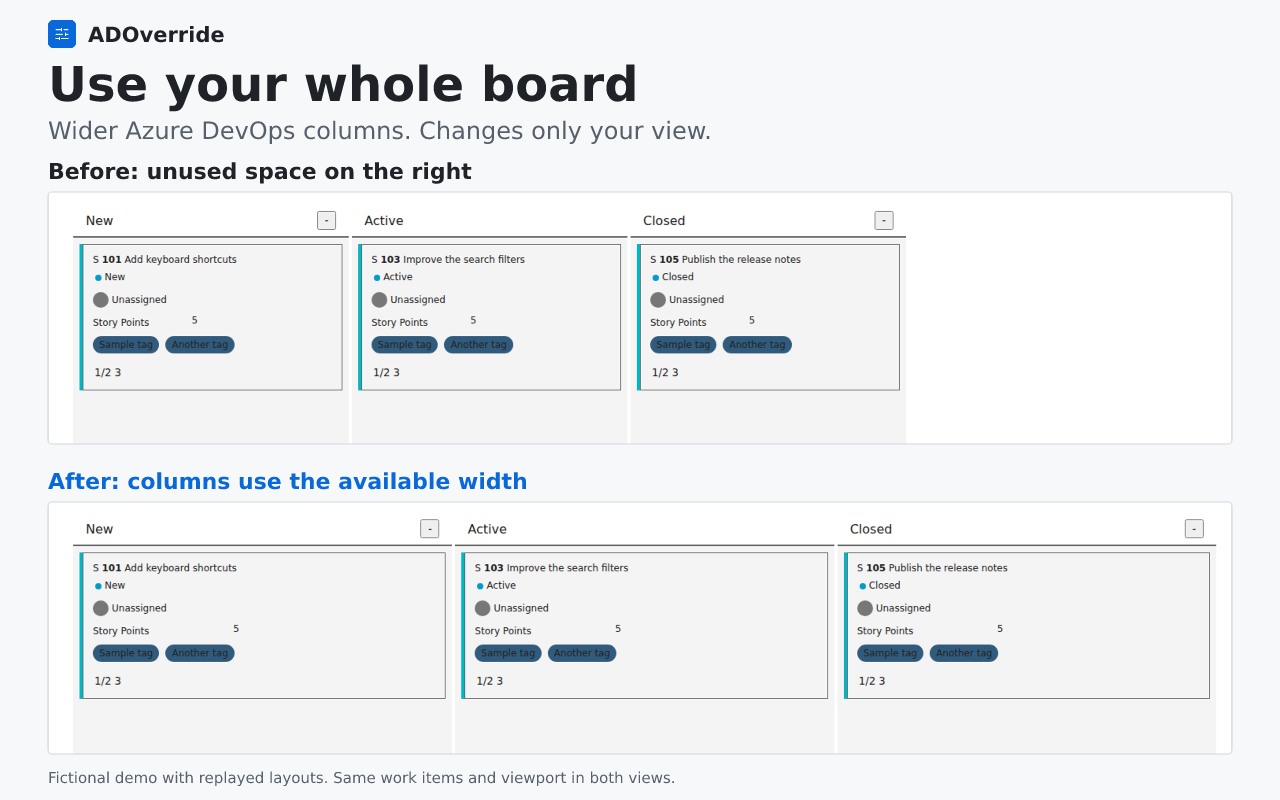
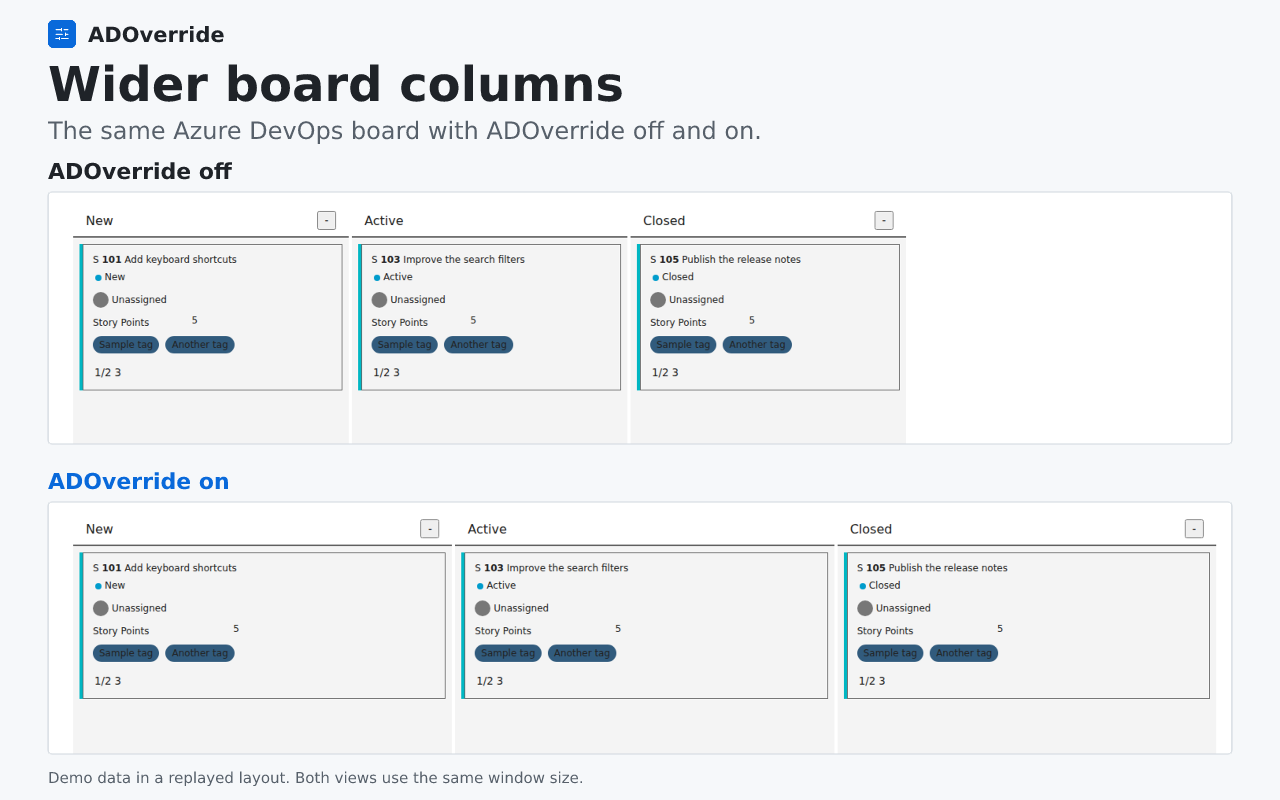
docs: use plain language and copy-ready paragraphs
Replace slogans with direct descriptions of the controls and behavior.
Keep listing paragraphs and dashboard copy on single source lines.

Copilot-Session: d2587140-a7e9-4cc3-b282-4b366887cf30

Changed region(s): [[0.0312, 0.0625, 0.5938, 0.25], [0.0625, 0.9688, 0.5312, 1.0], [0.0625, 0.5938, 0.4062, 0.625]]

diff --git a/docs/chrome-web-store.md b/docs/chrome-web-store.md
@@ -1,28 +1,18 @@
 # Chrome Web Store listing and updates
 
-The [live item](https://chromewebstore.google.com/detail/adoverride-azure-devops-b/ijeoidnjoamdkpfgbnhfajddhpakobjo)
-currently serves **0.11.10**. The copy in [store/LISTING.txt](store/LISTING.txt)
-and the published-version images describe Boards and work items only.
-Newer PR features on `main` are not in that package.
+The [store version](https://chromewebstore.google.com/detail/adoverride-azure-devops-b/ijeoidnjoamdkpfgbnhfajddhpakobjo) is **0.11.10**. The text in [store/LISTING.txt](store/LISTING.txt) and the images describe Boards and work items. PR features on `main` are not in that package.
 
 No store submission is made by the scripts in this repository.
 
 ## 1. Update the existing item
 
-Open the [Developer Dashboard](https://chrome.google.com/webstore/devconsole)
-using the publishing account and select ADOverride, item
-`ijeoidnjoamdkpfgbnhfajddhpakobjo`. **Do not add a new item.**
+Open the [Developer Dashboard](https://chrome.google.com/webstore/devconsole) with the publishing account and select ADOverride, item `ijeoidnjoamdkpfgbnhfajddhpakobjo`. **Do not add a new item.**
 
-For the current presentation-only update, replace the detailed description with
-`store/LISTING.txt` and the first screenshot with `store/01-board.jpg`. Keep the
-existing package and screenshots 2-5. Confirm the homepage, support, and privacy
-links below, save the draft, and follow the dashboard's review/publication steps.
-The listing bundle is not an extension ZIP and must not be uploaded as a package.
+Replace the detailed description with `store/LISTING.txt` and the first screenshot with `store/01-board.jpg`. Keep the current package and screenshots 2-5. Check the links below, save, and submit the changes.
 
-For a later binary update, use the approved, verified Chrome ZIP from the
-matching [GitHub release](https://github.com/sinmentis/adoverride/releases).
-Keep existing release artifacts unchanged. A source-code ZIP or the entire
-listing-assets folder is not an installable extension package.
+The listing ZIP contains text and images, not an extension package. Do not upload it in the dashboard's package section.
+
+For a later extension update, use the approved Chrome ZIP from the matching [GitHub release](https://github.com/sinmentis/adoverride/releases). Do not change an already published release file.
 
 ## 2. Store listing
 
@@ -45,29 +35,22 @@ The published 0.11.10 manifest supplies this short description:
 Declutter Azure DevOps Boards and work items: hide fields, rearrange cards, wider Kanban columns. Your Azure DevOps. Your way.
 ```
 
-The title and short description come from the uploaded manifest. They are not
-changed by pasting the detailed description. This presentation update keeps
-them unchanged. For a future approved package, a clearer proposed summary is
-(122 characters, within the 132-character limit):
+The title and short description come from the uploaded extension package. This text-and-images update leaves them unchanged. A suggested short description for a later package is:
 
 ```text
-Hide work item fields, rearrange form sections, and widen Azure DevOps boards. Customize your view, not your team's setup.
+Hide fields, move work item sections, and make Azure DevOps board columns wider. Changes only affect your browser.
 ```
 
 ### Detailed description
 
-Paste the complete contents of [store/LISTING.txt](store/LISTING.txt). That file
-is the source of truth for current-store copy; do not paste PR feature text from
-the main-branch guide into the current-version listing.
+Paste all of [store/LISTING.txt](store/LISTING.txt). Do not add PR features to this version's description.
 
 ## 3. Privacy practices
 
 ### Single purpose
 
 ```text
-Let users personalize the local presentation of Azure DevOps Boards and work
-items by choosing visible content, form arrangements, and display density,
-without changing work item data or the team's process.
+Change how Azure DevOps Boards and work items look in the user's browser. Users can hide fields, move form sections, and change spacing without changing work item data or the team's process.
 ```
 
 ### Permission justifications
@@ -75,36 +58,25 @@ without changing work item data or the team's process.
 **storage**
 
 ```text
-Store local presentation settings, scope-specific Board profiles, Ticket
-visibility and arrangements, named presets, the last undoable change, and a
-pre-import configuration backup. No Chrome Storage Sync is used.
+Save settings in the browser: Board profiles, hidden work item fields, section positions, presets, the last undoable change, and a backup before importing settings. Chrome Storage Sync is not used.
 ```
 
 **activeTab**
 
 ```text
-Identify the tab the user is customizing when they open the popup, determine
-whether it is a supported Azure DevOps view, and connect the popup's settings
-and inspection controls to that tab. Unrelated pages are not customized.
+Check whether the current tab is a supported Azure DevOps page and connect the popup to that page. The extension does not change other websites.
 ```
 
 **scripting**
 
 ```text
-Inject the bundled content controller into an already-open Azure DevOps tab
-when the controller is missing or outdated after an extension install or
-update. Injection is guarded by a supported Azure DevOps URL check and uses
-only packaged code.
+Connect the extension to an Azure DevOps tab that was already open when the extension was installed or updated. This uses only code included in the package and only runs on supported Azure DevOps URLs.
 ```
 
 **Host permissions: `https://dev.azure.com/*`, `https://*.visualstudio.com/*`**
 
 ```text
-Apply saved presentation settings to Azure DevOps pages as they load and read
-project/process/type/form-layout metadata from the user's own organization
-over HTTPS with their existing session. The legacy visualstudio.com pattern
-supports organization-specific Azure DevOps hostnames. Access is not requested
-for arbitrary websites. There is no developer backend or work item write API.
+Apply saved settings to Azure DevOps pages and read project, process, work item type, and form-layout information from the user's own organization over HTTPS. Requests use the user's existing sign-in. The visualstudio.com permission supports older Azure DevOps addresses. The extension does not request access to other websites, send data to a developer server, or write to work items.
 ```
 
 ### Remote code
@@ -144,29 +116,18 @@ must match the linked privacy policy.
 Paste these instructions into **Test instructions**:
 
 ```text
-ADOverride has no separate account or paid features. It requires access to an
-Azure DevOps Services organization/project with Azure Boards enabled.
+ADOverride has no separate account or paid features. You need an Azure DevOps Services organization and project with Azure Boards enabled.
 
-1. Sign in at https://dev.azure.com using a test organization/project. Use an
-   English UI and a standard Agile or Scrum process. Create a few fictional
-   work items if the Board is empty.
+1. Sign in at https://dev.azure.com using a test organization and project. Use English and a standard Agile or Scrum process. Create a few fictional work items if the Board is empty.
 2. Open Boards > Boards, pin ADOverride, and open its popup.
-3. In Library > Board layout, toggle Equal-width columns and Compact header.
-   The Board should change without modifying work items.
-4. In Library > Card fields, toggle Assignee or Tags. Card metadata visibility
-   should change without changing the stored values.
-5. Open a User Story or Bug. The popup selects Ticket. Expand Details under
-   Cards & fields and toggle a supported optional card such as Description.
-6. Open Layout and switch between Original and Workspace. Where the native
-   layout is supported, Workspace has a reading area and Properties rail.
-7. Leave layout controls unlocked to drag a card by its extension handle.
-   Undo restores the last Ticket customization. Lock removes on-page controls.
-8. Turn off ADOverride using the popup's master switch. Native presentation
-   returns; saved preferences remain for the next time it is enabled.
+3. In Library > Board layout, toggle Equal-width columns and Compact header. The Board should change without modifying work items.
+4. In Library > Card fields, toggle Assignee or Tags. Fields should appear or disappear without changing the saved values.
+5. Open a User Story or Bug. The popup selects Ticket. Expand Details under Cards & fields and toggle a supported section such as Description.
+6. Open Layout and switch between Original and Workspace. On supported forms, Workspace shows the main text in a wide column and other fields in a sidebar.
+7. Leave layout controls unlocked and drag a section by its extension handle. Undo restores the last work item customization. Lock removes the on-page controls.
+8. Turn off ADOverride using the switch at the top of the popup. The original page layout returns. Saved settings are kept.
 
-No personal access token is required. The extension is limited to
-dev.azure.com and HTTPS *.visualstudio.com sites. Unknown layouts may remain
-unchanged. On other websites the popup explains that an ADO page is required.
+No personal access token is required. The extension only works on dev.azure.com and HTTPS *.visualstudio.com sites. Parts it does not recognize stay unchanged. On other websites the popup asks you to open an Azure DevOps page.
 ```
 
 **Access to arrange before submission:** these instructions do not provide a

diff --git a/README.md b/README.md
@@ -1,79 +1,49 @@
 # ADOverride
 
-**Customize your Azure DevOps view without changing your team's setup.**
-
-A Chrome extension to hide work item fields, rearrange form sections, and make
-Kanban boards use more of your screen. Layout changes affect your browser, not
-your teammates' views or your Azure DevOps process.
+ADOverride changes the layout of Azure DevOps boards and work items in Chrome. You can hide fields, move sections in work items, and make board columns wider. It only changes your view, not work item data or what other people see.
 
 For Azure DevOps Services on `dev.azure.com` and `*.visualstudio.com`.
 
-**[Install from Chrome Web Store](https://chromewebstore.google.com/detail/adoverride-azure-devops-b/ijeoidnjoamdkpfgbnhfajddhpakobjo)** |
-[Getting started](docs/guide.md#install-in-chrome) |
-[Manual install / build from source](docs/guide.md#manual-install)
+**[Install from Chrome Web Store](https://chromewebstore.google.com/detail/adoverride-azure-devops-b/ijeoidnjoamdkpfgbnhfajddhpakobjo)** | [Getting started](docs/guide.md#install-in-chrome) | [Manual install / build from source](docs/guide.md#manual-install)
 
-**Available in the store: v0.11.10**, with Boards and work item customization.
-The newer pull request features on `main` (v0.11.17) are **not in the store
-version yet**.
+**The store version is v0.11.10.** It supports Boards and work items. Pull request support is on `main` (v0.11.17), but **is not in the store version yet**.
 
-[![Before and after: the same fictional Azure DevOps board uses the available width with ADOverride](docs/images/board-hero.png)](docs/images/board-hero.png)
+[![The same demo board with ADOverride off and on](docs/images/board-hero.png)](docs/images/board-hero.png)
 
 ## Get started
 
-1. Install from the store, pin **ADOverride**, and open an Azure DevOps Kanban
-   board or work item.
-2. Click the extension icon. **Library** contains Board settings; **Ticket**
-   contains work item settings.
-3. Choose the fields and layout you want. The built-in preset applies
-   automatically and hides some work item fields. Turn the switch at the top
-   of the popup off to see Azure DevOps' own layout; your preferences are kept.
+1. Install from the store, pin **ADOverride**, and open an Azure DevOps Kanban board or work item.
+2. Click the extension icon. **Library** has the Board settings. **Ticket** has the work item settings.
+3. Turn individual options on or off.
 
-Chrome updates store installations automatically. Manual installation is for
-development or trying a build that has not reached the store.
+The default preset applies automatically and hides some work item fields. Use **Ticket > Cards & fields > Show all** to show them again. The switch at the top of the popup turns off layout changes and keeps your saved settings.
 
-## Use the full width of your Kanban board
+Chrome updates store installations automatically. Use manual installation only for development or trying a build that is not in the store.
 
-Use equal-width columns, reduce header spacing, and choose which fields appear
-on cards. Load more items through Azure DevOps' native controls under your
-current filters. Save Board settings for one board, a project, an organization,
-or all supported sites.
+## Boards
 
-## Hide work item fields and give descriptions more room
+Make columns fill the available width, reduce header spacing, and choose which fields appear on cards. The extension can also load more items automatically under your current filters. Save settings for one board, a project, an organization, or all supported sites.
 
-Show or hide supported form sections and fields, move sections into your
-preferred arrangement, or use **Workspace** for a wider reading area with
-properties alongside it. Lock the layout or undo your last customization.
-Works with supported User Story, Bug, and other work item forms.
+## Work items
+
+Show or hide supported pages, sections, and fields. Move sections, or use **Workspace** to put the main text in a wide column and other fields in a sidebar. You can lock the layout or undo your last change. Supported forms include User Stories and Bugs.
 
 [![The same fictional work item before and after the wider reading layout](docs/images/ticket-before-after.png)](docs/images/ticket-before-after.png)
 
-Save personal presets or transfer settings with JSON export/import.
-See the [guide](docs/guide.md) for individual controls and how to restore hidden
-fields.
+You can save presets and export or import settings as JSON. The [guide](docs/guide.md) explains each control.
 
-## Compatibility and privacy
+## Compatibility
 
-Supports Azure DevOps Services on `dev.azure.com` and `*.visualstudio.com`.
-Some features depend on English labels. Board layout support targets Kanban
-boards, not every Backlog, Query, sprint, or custom layout. Unsupported parts
-may stay unchanged. Azure DevOps Server on other domains is not supported.
+Some features need English page labels. Board layout changes work on supported Kanban boards, not every Backlog, Query, sprint, or custom layout. Parts the extension does not recognize stay unchanged. Azure DevOps Server on other domains is not supported.
 
-Settings are stored locally. No analytics or developer backend.
-ADOverride reads the page address and layout to apply settings, and requests
-form-layout metadata from your own Azure DevOps organization using your existing
-sign-in. It does not send your work item data to the developer or submit work
-item changes. [Read the privacy policy](PRIVACY.md).
+## Privacy
 
-*Screenshots use fictional work items and replayed layouts, not company data.*
+Settings stay in your browser. The extension reads the current Azure DevOps page address and layout, and gets form-layout information from your organization using your existing sign-in. It does not send your work item data to the developer or save changes to your work items. There are no ads or analytics. [Privacy policy](PRIVACY.md).
 
-## Pull request improvements on main
+*Screenshots use fictional work items and replayed layouts.*
 
-**Not included in the current store or latest tagged release, v0.11.10.**
+## Pull requests (not yet in the store)
 
-The newer source build splits Overview into **Activity**, **Description**, and
-**Checks**, gives discussions the full width, and folds passed checks and
-repeated updates. Resolved threads from selected authors can fold away; active
-and pending threads stay visible. [Explore the PR controls](docs/guide.md#tidy-a-pull-request)
-or [build from source](docs/guide.md#from-source).
+The version on `main` splits Overview into **Activity**, **Description**, and **Checks** tabs. Each tab uses the full width. You can fold passed checks, repeated updates, and resolved threads from selected authors. Active and pending threads stay visible. [PR settings](docs/guide.md#tidy-a-pull-request) | [Build from source](docs/guide.md#from-source).
 
 [Guide](docs/guide.md) | [Privacy](PRIVACY.md) | [Contributing](CONTRIBUTING.md) | [Security](SECURITY.md) | [MIT](LICENSE)

diff --git a/docs/guide.md b/docs/guide.md
@@ -1,53 +1,35 @@
 # ADOverride guide
 
-**Customize your Azure DevOps view without changing your team's setup.**
+ADOverride changes the layout of Azure DevOps boards and work items in Chrome. You can hide fields, move sections in work items, and make board columns wider. It only changes your view, not work item data or what other people see.
 
-Hide work item fields, rearrange form sections, and make Kanban boards use more
-of your screen. Your layout changes do not change your teammates' views or your
-Azure DevOps process.
-
-**Store version: v0.11.10.** Boards and work item features are available there.
-This guide also documents newer PR features on `main` (v0.11.17); those are not
-included in the store or latest tagged release yet.
+**The store version is v0.11.10.** It supports Boards and work items. This guide also covers PR features on `main` (v0.11.17), which are not in the store or latest tagged release yet.
 
 ## Install in Chrome
 
 1. [Install ADOverride from Chrome Web Store](https://chromewebstore.google.com/detail/adoverride-azure-devops-b/ijeoidnjoamdkpfgbnhfajddhpakobjo).
 2. Pin the extension and open an Azure DevOps Kanban board or work item.
-3. Click the extension icon. **Library** holds Board settings and **Ticket**
-   holds work item settings.
+3. Click the extension icon. **Library** has the Board settings. **Ticket** has the work item settings.
 
-The built-in preset applies automatically. It widens Board columns, enables
-native item loading, opens work items in Workspace, and hides some fields,
-including estimates, dates, and severity where matched. Use
-**Ticket > Cards & fields > Show all** to restore field and section visibility.
-The switch at the top of the popup turns off layout customization while keeping
-your preferences.
+The default preset applies automatically. It widens Board columns, turns on automatic item loading, and switches work items to Workspace. It also hides some fields, including estimates, dates, and severity where matched.
 
-Store installations receive updates through Chrome. Organization-managed
-browsers may require approval to install an extension or grant site access.
+To show hidden fields, use **Ticket > Cards & fields > Show all**. The switch at the top of the popup turns off layout changes and keeps your saved settings.
+
+Chrome updates store installations automatically. Your organization may require approval to install extensions or let them access Azure DevOps.
 
 ## Manual install
 
-Use this route for development or a build not available in the store.
-It does not receive store updates.
+Use this route for development or a build that is not in the store. You will need to update it manually.
 
 ### From a release package
 
-1. Download the Chrome ZIP from [Releases](https://github.com/sinmentis/adoverride/releases)
-   and extract it into a permanent folder.
+1. Download the Chrome ZIP from [Releases](https://github.com/sinmentis/adoverride/releases) and extract it into a permanent folder.
 2. Open `chrome://extensions` and turn on **Developer mode**.
-3. Choose **Load unpacked**, then select the extracted folder containing
-   `manifest.json`.
+3. Choose **Load unpacked**, then select the extracted folder containing `manifest.json`.
 4. Pin **ADOverride** and open an Azure DevOps Board or work item.
 
-Use the same folder for manual updates so Chrome retains the extension identity
-and settings. Save drafts, click **Reload** on the extension card, then refresh
-Azure DevOps. The popup header shows the installed version.
+Use the same folder for updates so Chrome keeps the extension's settings. Save any drafts, click **Reload** on the extension card, then refresh Azure DevOps. The popup header shows the installed version.
 
-The store and unpacked installs have separate settings. To switch between them,
-export your settings first, disable the old copy, then import into the new copy.
-Do not run both copies on the same pages.
+The store and unpacked installs have separate settings. To switch between them, export your settings first, disable the old copy, then import into the new copy. Do not run both copies on the same pages.
 
 ### From source
 

diff --git a/docs/publishing.md b/docs/publishing.md
@@ -7,13 +7,13 @@ The repository and [Chrome Web Store item](https://chromewebstore.google.com/det
 are public. The current store and latest tagged release are **0.11.10**;
 `main` is newer. Store submissions remain a separate, manual approval.
 
-**Tagline**
+**Short explanation**
 
-> Customize your Azure DevOps view without changing your team's setup.
+> Hide fields, move sections in work items, and make Azure DevOps board columns wider.
 
 **Description**
 
-> Chrome extension for personal Azure DevOps layouts: hide work item fields, rearrange form cards, and widen Kanban columns. No team-process changes.
+> Chrome extension for Azure DevOps. Hide fields, move sections in work items, and make board columns wider. Only affects your browser.
 
 **Website**
 
